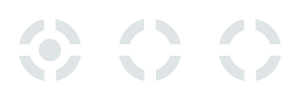
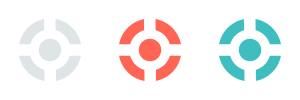
right colors implemented

Changed region(s): [[0.72, 0.18, 0.96, 0.81], [0.39, 0.18, 0.63, 0.81]]

diff --git a/js/editor.js b/js/editor.js
@@ -122,11 +122,6 @@ function mouseMove (pointer, x, y) {
 	}
 }
 
-function getBlueBoxColor (id) {
-	if (id==2) return 0;
-	return id % 20;
-}
-
 function changeCursor (key) {
 	if (o.cursor) {
 		var prevcur = o.cursor;
@@ -148,7 +143,8 @@ function changeCursor (key) {
 			} else {
 				btype = 20;
 			}
-			o.cursor = o.boxes.create (x, y, 'box_blue_'+getBlueBoxColor(btype)+'_small');	
+			o.cursor = o.boxes.create (x, y, 'box_blue_small');	
+            o.cursor.frame = getBlueBoxFrame(btype);
 			o.cursor.btype = btype;
 			break;
 		case o.THREE :
@@ -301,7 +297,7 @@ Puzzle.Editor.prototype.create = function () {
 					}
 					if (arr[y][x].value==5) {
 						box = game.boxes.create(xx, yy, 'box_arr_small');
-						box.frame = (arr[y][x].spin=="cw") ? 1 : 2;
+						if (arr[y][x].spin) box.frame = (arr[y][x].spin=="cw") ? 1 : 2;
 						box.angle = o_getAngleFromDir(arr[y][x].dir);
 					}
 					if (arr[y][x].value==6) {
@@ -313,7 +309,10 @@ Puzzle.Editor.prototype.create = function () {
 					}
 				} else {
 					if (arr[y][x] == 1) box = o.boxes.create(xx, yy, 'box_black_small');
-					if (isBlueBox(arr[y][x])) box = o.boxes.create(xx, yy, 'box_blue_'+getBlueBoxColor(arr[y][x])+'_small');
+					if (isBlueBox(arr[y][x])) {
+                        box = o.boxes.create(xx, yy, 'box_blue_small');
+                        box.frame = getBlueBoxFrame(arr[y][x]);
+                    }
 					if (arr[y][x] == 3) box = o.boxes.create(xx, yy, 'box_gap_small');
 					if (arr[y][x] == 8) box = o.boxes.create(xx, yy, 'box_sokoban_small');
 				}

diff --git a/js/preload.js b/js/preload.js
@@ -25,14 +25,10 @@ Puzzle.Preload.prototype = {
 		this.load.image('logo_small', 'assets/images/logo_small.png');
 		this.load.image('logo_large', 'assets/images/logo_large.png');
 		this.load.image('box_black_small', 'assets/images/box_black_small.png');
-		this.load.spritesheet('box_blue_0_small', 'assets/images/box_blue_0_small.png', 100, 100);
-		this.load.spritesheet('box_blue_1_small', 'assets/images/box_blue_1_small.png', 100, 100);
-		this.load.spritesheet('box_blue_2_small', 'assets/images/box_blue_2_small.png', 100, 100);
+		this.load.spritesheet('box_blue_small', 'assets/images/box_blue_small.png', 100, 100);
+        this.load.spritesheet('box_blue_large', 'assets/images/box_blue_large.png', 200, 200);
 		this.load.image('box_gap_small', 'assets/images/box_gap_small.png');
 		this.load.image('box_black_large', 'assets/images/box_black_large.png');
-		this.load.spritesheet('box_blue_0_large', 'assets/images/box_blue_0_large.png', 200, 200);
-		this.load.spritesheet('box_blue_1_large', 'assets/images/box_blue_1_large.png', 200, 200);
-		this.load.spritesheet('box_blue_2_large', 'assets/images/box_blue_2_large.png', 200, 200);
 		this.load.image('box_gap_large', 'assets/images/box_gap_large.png');
 		this.load.spritesheet('box_door', 'assets/images/box_door.png', 100, 100);
 		this.load.spritesheet('box_arr_small', 'assets/images/box_arr_small.png', 100, 100);

diff --git a/js/game.js b/js/game.js
@@ -180,7 +180,10 @@ Puzzle.Game.prototype.createStage = function () {
             return;
         }
         if(aim_type==1) box = game.boxes.create (xx, yy, Dimensions.getImageKey('box_black'));
-        if(isBlueBox(aim_type)) box = game.boxes.create (xx, yy, Dimensions.getImageKey('box_blue_'+getBlueBoxColor(aim_type)));
+        if(isBlueBox(aim_type)) {
+            box = game.boxes.create (xx, yy, Dimensions.getImageKey('box_blue'));
+            box.frame = getBlueBoxFrame(aim_type);
+        }
         if(aim_type==3) box = game.boxes.create (xx, yy, Dimensions.getImageKey('box_gap'));
         if(aim_type==8) box = game.boxes.create (xx, yy, Dimensions.getImageKey('box_sokoban'));
         if (aim_type instanceof Object) {

diff --git a/js/utils.js b/js/utils.js
@@ -1,3 +1,8 @@
+function getBlueBoxFrame (id) {
+	if (id==2) return 0;
+	return id % 20;
+}
+
 function getAngleToAnimate (cur_angle, dir, invert) {
     var angle = getNormalOrInvertedAngleFromDir(dir, invert) - cur_angle;
     if (angle > 180) angle = angle - 360;
